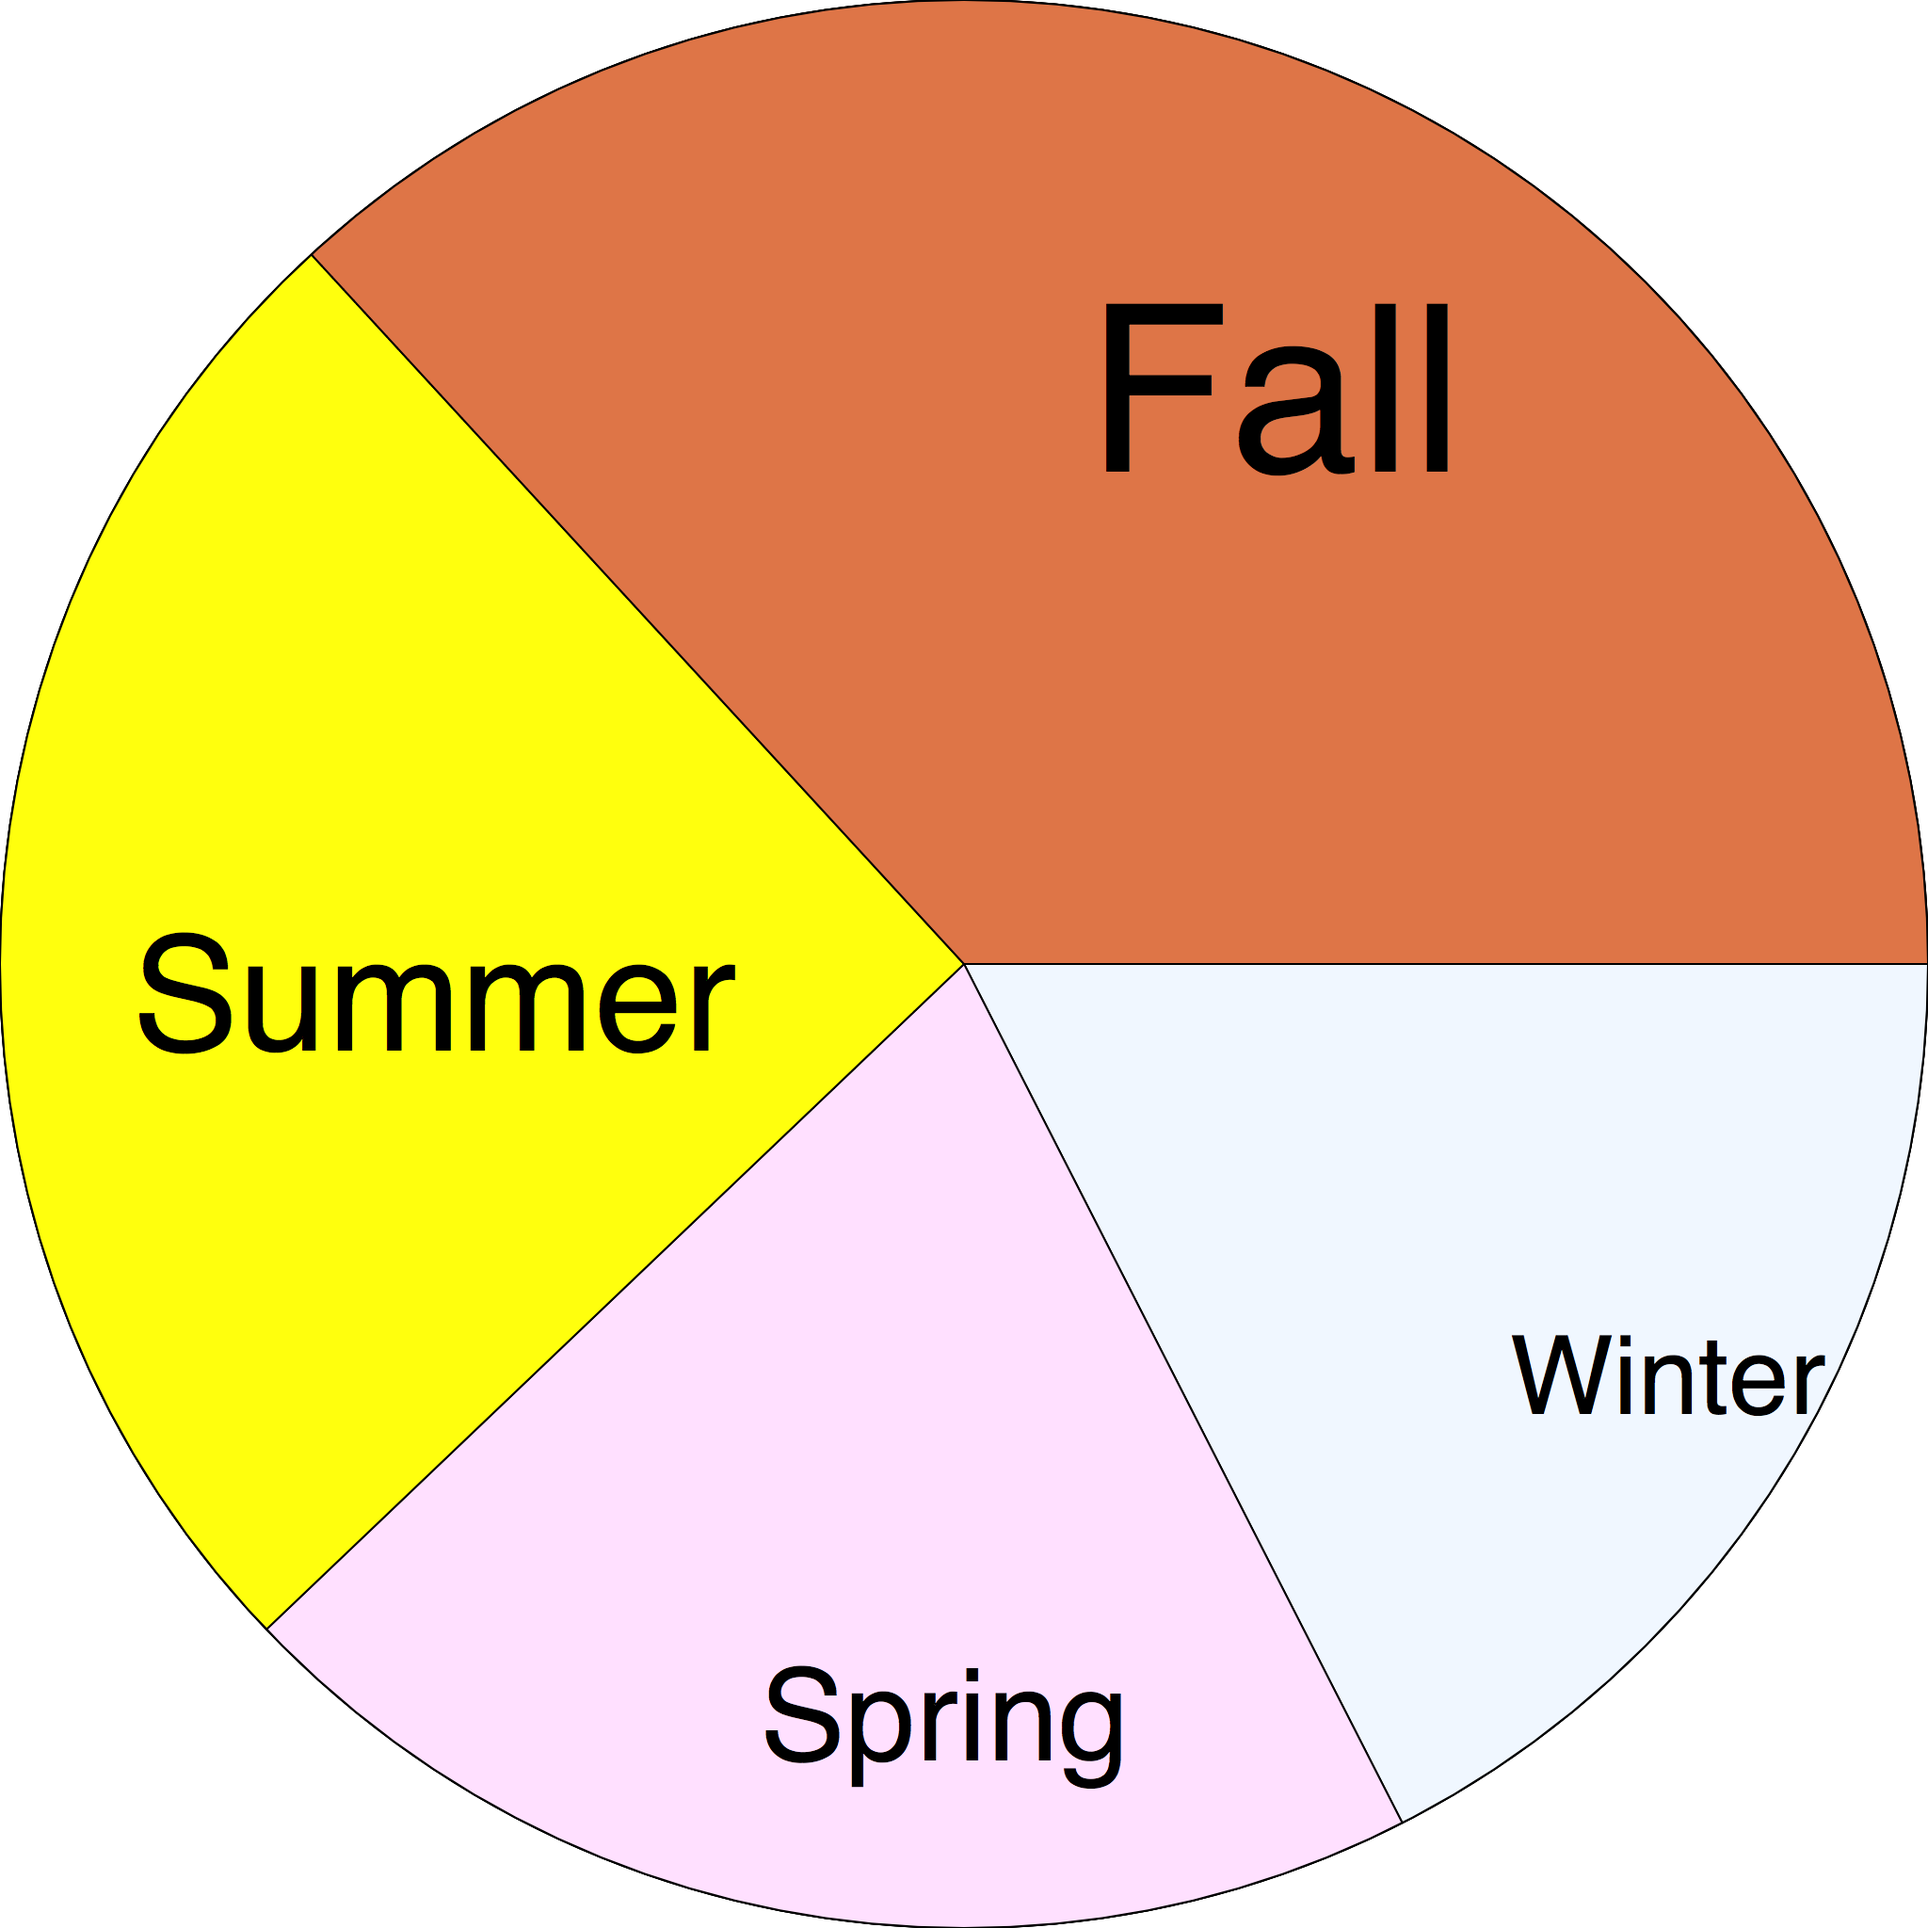
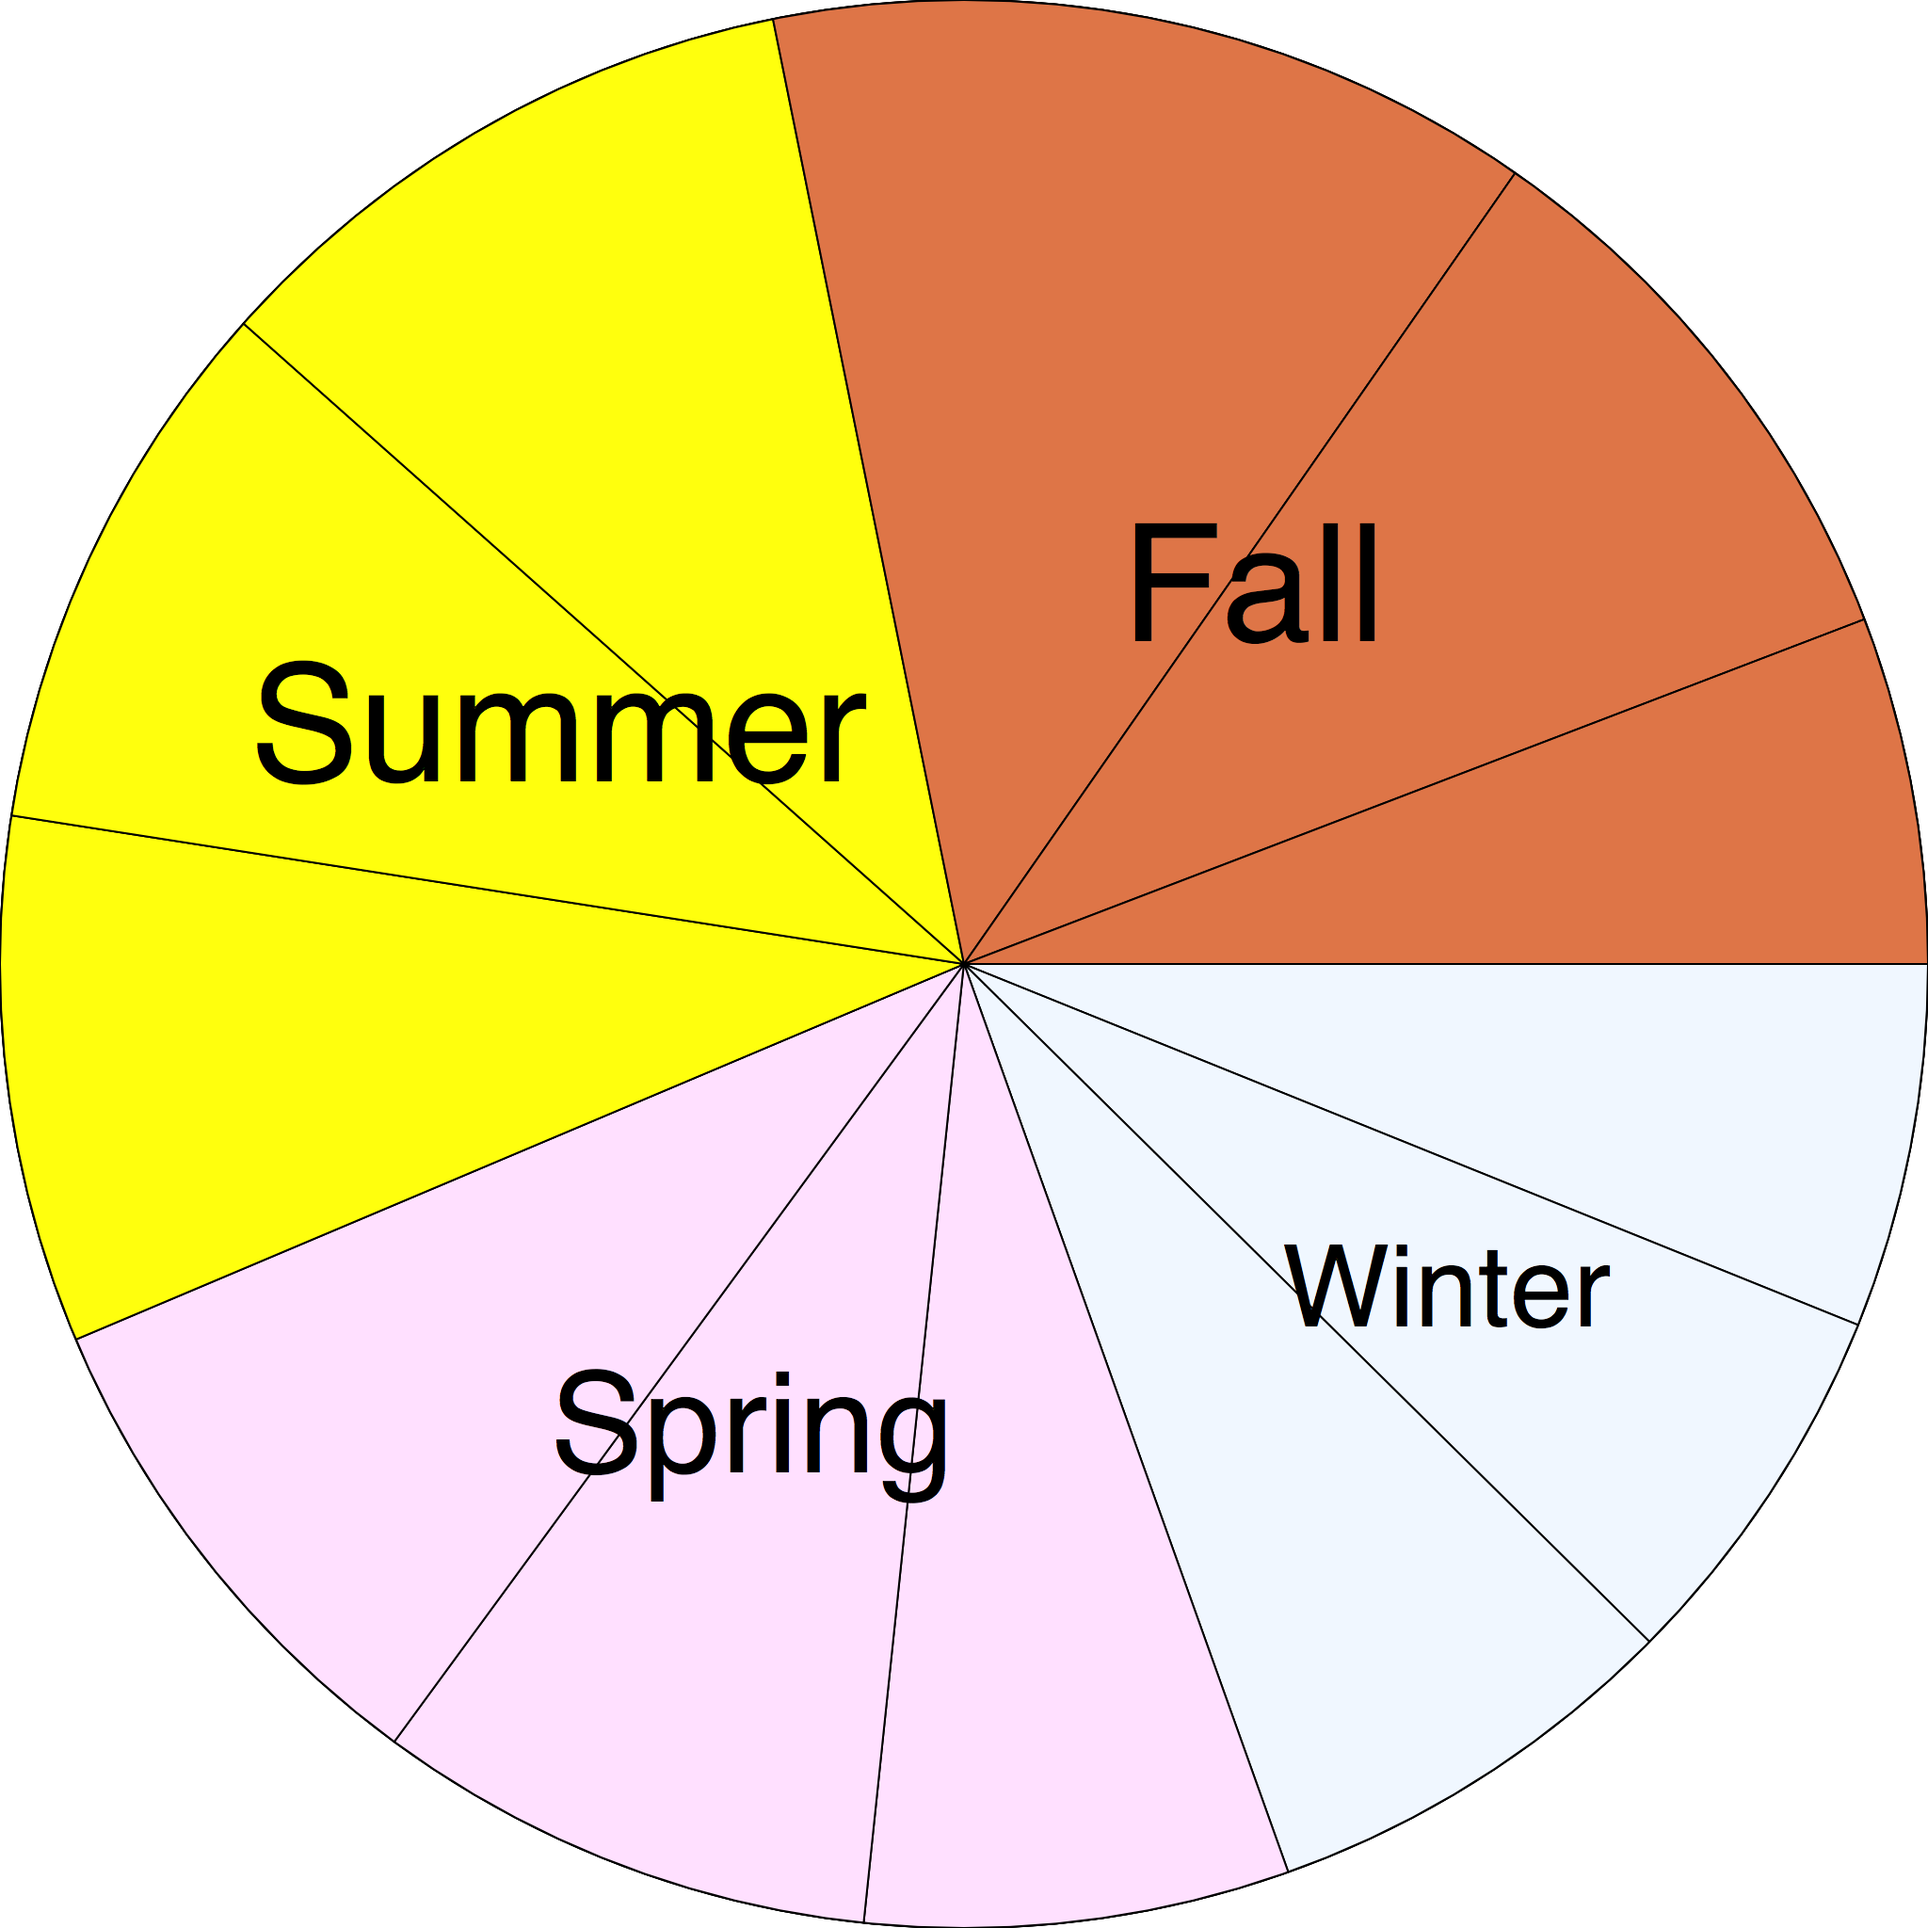
Visualizacao lancamentos por estacao ver. final

diff --git a/src/steampunk_spider/visualisacoes/lancamentosPorEstacao.py b/src/steampunk_spider/visualisacoes/lancamentosPorEstacao.py
@@ -16,45 +16,91 @@ endpath(draw = False)
 
 drawpath(c)
         
-def createPath(ia, ea, pathName, tam):
+def createPath(ia, ea):
     stroke(0)
     pi = (768 * cos(ia), 768 * sin(ia))
     pf = (768 * cos(ea), 768 * sin(ea))
-
-    ma = ia + ((ea - ia) / 2)
-    pm = (768 * cos(ma), 768 * sin(ma))
     
-    pathArc = findpath([pi, pm, pf], 1)
     pathCone = findpath([pi, pf, (0, 0)], 0)
     
-    path = c.intersect(pathArc.union(pathCone))
+    path = c.intersect(pathCone)
     drawpath(path)
     
-    push()
+    return pi, pf
+    
+def drawText(name, tam, p):
     fill(0)
-    font("Helvetica", tam / 8)
+    font("Helvetica", tam / 25)
     align(CENTER)
-
-    text(pathName, pm[0] / 2  - textmetrics(pathName, tam / 10)[0], pm[1] / 2 + textmetrics(pathName, tam / 10)[0])
-    pop()
+    text(name, p[0] - textwidth(name) / 2, p[1] + textheight(name) / 8)
 
 def drawGraph(winter, spring, summer, fall):
-    total = float(winter + spring + summer + fall)
-    aWinter = radians(winter / total * 360)
-    aSpring = radians(spring / total * 360) + aWinter
-    aSummer = radians(summer / total * 360) + aSpring
-    
-    angle = 0
+    total = float(sum(winter) + sum(spring) + sum(summer) + sum(fall))
 
-    fill(0.94, .97, 1, 1)    
-    createPath(0, aWinter, "Winter", winter)
-    fill(1, .88, 1, 1)
-    createPath(aWinter, aSpring, "Spring", spring)
-    fill(1, 1, .05, 1)
-    createPath(aSpring, aSummer, "Summer", summer)
-    fill(.87, .46, .28, 1)
-    createPath(aSummer, 2 * pi, "Fall", fall)
+    stack = 0
     
+    i = (0, 0)
+    f = (0, 0)
+    
+    fill(0.94, .97, 1, 1)
+    for month in winter:
+        angle = radians(month / total * 360)
+        pi, pf = createPath(stack, angle + stack)
+        stack += angle
+        
+        if winter.index(month) == 0:
+            i = pi
+        if winter.index(month) == 2:
+            f = pf
+            
+    p = ((i[0] + f[0]) / 4, (i[1] + f[1]) / 4)
+    drawText("Winter", float(sum(winter)), p)
+    
+    
+    fill(1, .88, 1, 1)
+    for month in spring:
+        angle = radians(month / total * 360)
+        pi, pf = createPath(stack, angle + stack)
+        stack += angle
+        
+        if spring.index(month) == 0:
+            i = pi
+        if spring.index(month) == 2:
+            f = pf
+            
+    p = ((i[0] + f[0]) / 4, (i[1] + f[1]) / 4)
+    drawText("Spring", float(sum(spring)), p)
+        
+        
+    fill(1, 1, .05, 1)
+    for month in summer:
+        angle = radians(month / total * 360)
+        pi, pf = createPath(stack, angle + stack)
+        stack += angle
+        
+        if summer.index(month) == 0:
+            i = pi
+        if summer.index(month) == 2:
+            f = pf
+            
+    p = ((i[0] + f[0]) / 4, (i[1] + f[1]) / 4)
+    drawText("Summer", float(sum(summer)), p)
+        
+        
+    fill(.87, .46, .28, 1)
+    for month in fall:
+        angle = radians(month / total * 360)
+        pi, pf = createPath(stack, angle + stack)
+        stack += angle
+        
+        if fall.index(month) == 0:
+            i = pi
+        if fall.index(month) == 2:
+            f = pf
+            
+    p = ((i[0] + f[0]) / 4, (i[1] + f[1]) / 4)
+    drawText("Fall", float(sum(fall)), p)
+        
 DB_NAME = 'steampunk'
 
 # Get database connection
@@ -63,18 +109,38 @@ db_conn = mysql.connector.connect(user='root', password='vaporAranha', host='loc
 cursor = db_conn.cursor()
 
 request = ("SELECT "
-	"(SELECT COUNT(software.release_date) FROM software "
-		"WHERE software.release_date LIKE '%Jan%' OR '%Feb%' OR '%Mar%') AS Winter, "
-	"(SELECT COUNT(software.release_date) FROM software "
-		"WHERE software.release_date LIKE '%Apr%' OR '%May%' OR '%Jun%') AS Spring, "
-	"(SELECT COUNT(software.release_date) FROM software "
-		"WHERE software.release_date LIKE '%Jul%' OR '%Aug%' OR '%Sep%') AS Summer, "
-	"(SELECT COUNT(software.release_date) FROM software "
-		"WHERE software.release_date LIKE '%Oct%' OR '%Nov%' OR '%Dec%') AS Fall")
+    "(SELECT COUNT(software.release_date) FROM software "
+        "WHERE software.release_date LIKE '%Jan%') AS Jan, "
+    "(SELECT COUNT(software.release_date) FROM software "
+        "WHERE software.release_date LIKE '%Feb%') AS Feb, "
+    "(SELECT COUNT(software.release_date) FROM software "
+        "WHERE software.release_date LIKE '%Mar%') AS Mar, "
+    "(SELECT COUNT(software.release_date) FROM software "
+        "WHERE software.release_date LIKE '%Apr%') AS Apr, "
+    "(SELECT COUNT(software.release_date) FROM software "
+        "WHERE software.release_date LIKE '%May%') AS May, "
+    "(SELECT COUNT(software.release_date) FROM software "
+        "WHERE software.release_date LIKE '%Jun%') AS Jun, "
+    "(SELECT COUNT(software.release_date) FROM software "
+        "WHERE software.release_date LIKE '%Jul%') AS Jul, "
+    "(SELECT COUNT(software.release_date) FROM software "
+        "WHERE software.release_date LIKE '%Aug%') AS Aug, "
+    "(SELECT COUNT(software.release_date) FROM software "
+        "WHERE software.release_date LIKE '%Sep%') AS Sep, "
+    "(SELECT COUNT(software.release_date) FROM software "
+        "WHERE software.release_date LIKE '%Oct%') AS Oct, "
+    "(SELECT COUNT(software.release_date) FROM software "
+        "WHERE software.release_date LIKE '%Nov%') AS Nov, "
+    "(SELECT COUNT(software.release_date) FROM software "
+        "WHERE software.release_date LIKE '%Dec%') AS 'Dec'")
 
 cursor.execute(request)
 
-for winter, spring, summer, fall in cursor:
+for Jan, Feb, Mar, Apr, May, Jun, Jul, Aug, Sep, Oct, Nov, Dec in cursor:
+    winter = [Jan, Feb, Mar]
+    spring = [Apr, May, Jun]
+    summer = [Jul, Aug, Sep]
+    fall = [Oct, Nov, Dec]
     drawGraph(winter, spring, summer, fall)
 
 cursor.close()

diff --git a/src/steampunk_spider/database/lancamentoEstacao.py b/src/steampunk_spider/database/lancamentoEstacao.py
@@ -10,19 +10,34 @@ cursor = db_conn.cursor()
 
 request = ("SELECT "
 	"(SELECT COUNT(software.release_date) FROM software "
-		"WHERE software.release_date LIKE '%Jan%' OR '%Feb%' OR '%Mar%') AS Winter, "
+		"WHERE software.release_date LIKE '%Jan%') AS Jan, "
 	"(SELECT COUNT(software.release_date) FROM software "
-		"WHERE software.release_date LIKE '%Apr%' OR '%May%' OR '%Jun%') AS Spring, "
+		"WHERE software.release_date LIKE '%Feb%') AS Feb, "
 	"(SELECT COUNT(software.release_date) FROM software "
-		"WHERE software.release_date LIKE '%Jul%' OR '%Aug%' OR '%Sep%') AS Summer, "
+		"WHERE software.release_date LIKE '%Mar%') AS Mar, "
 	"(SELECT COUNT(software.release_date) FROM software "
-		"WHERE software.release_date LIKE '%Oct%' OR '%Nov%' OR '%Dec%') AS Fall")
+		"WHERE software.release_date LIKE '%Apr%') AS Apr, "
+	"(SELECT COUNT(software.release_date) FROM software "
+		"WHERE software.release_date LIKE '%May%') AS May, "
+	"(SELECT COUNT(software.release_date) FROM software "
+		"WHERE software.release_date LIKE '%Jun%') AS Jun, "
+	"(SELECT COUNT(software.release_date) FROM software "
+		"WHERE software.release_date LIKE '%Jul%') AS Jul, "
+	"(SELECT COUNT(software.release_date) FROM software "
+		"WHERE software.release_date LIKE '%Aug%') AS Aug, "
+	"(SELECT COUNT(software.release_date) FROM software "
+		"WHERE software.release_date LIKE '%Sep%') AS Sep, "
+	"(SELECT COUNT(software.release_date) FROM software "
+		"WHERE software.release_date LIKE '%Oct%') AS Oct, "
+	"(SELECT COUNT(software.release_date) FROM software "
+		"WHERE software.release_date LIKE '%Nov%') AS Nov, "
+	"(SELECT COUNT(software.release_date) FROM software "
+		"WHERE software.release_date LIKE '%Dec%') AS 'Dec'")
 
 cursor.execute(request)
 
-for Winter, Spring, Summer, Fall in cursor:
-
-    print Winter, Spring, Summer, Fall
+for Jan, Feb, Mar, Apr, May, Jun, Jul, Aug, Sep, Oct, Nov, Dec in cursor:
+	print Jan, Feb, Mar, Apr, May, Jun, Jul, Aug, Sep, Oct, Nov, Dec
 
 cursor.close()
 db_conn.close()
